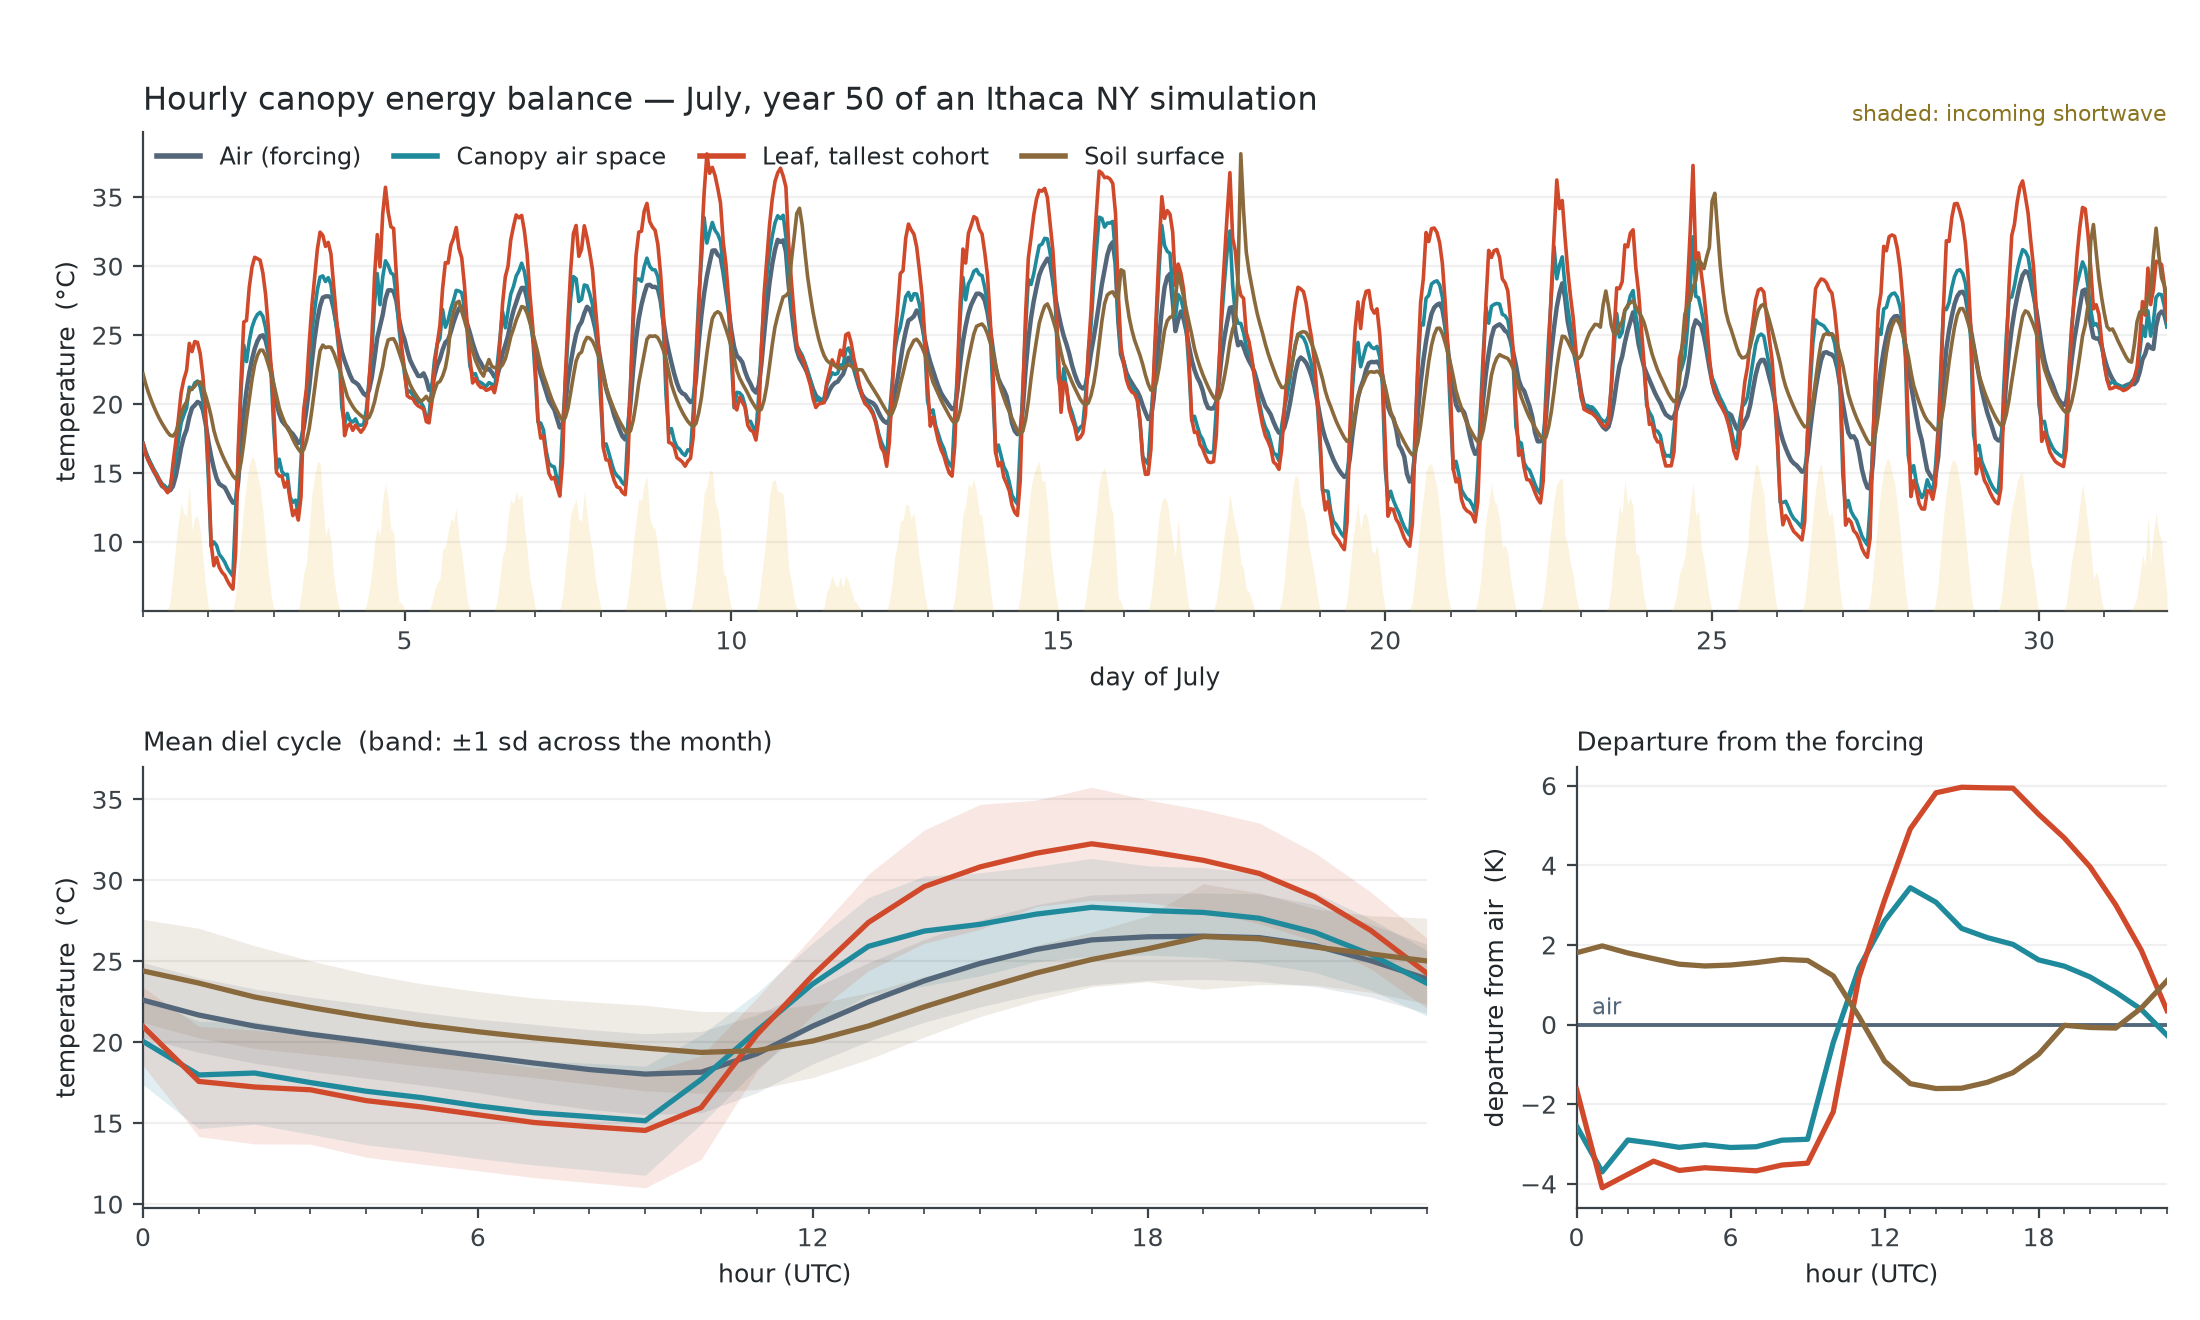
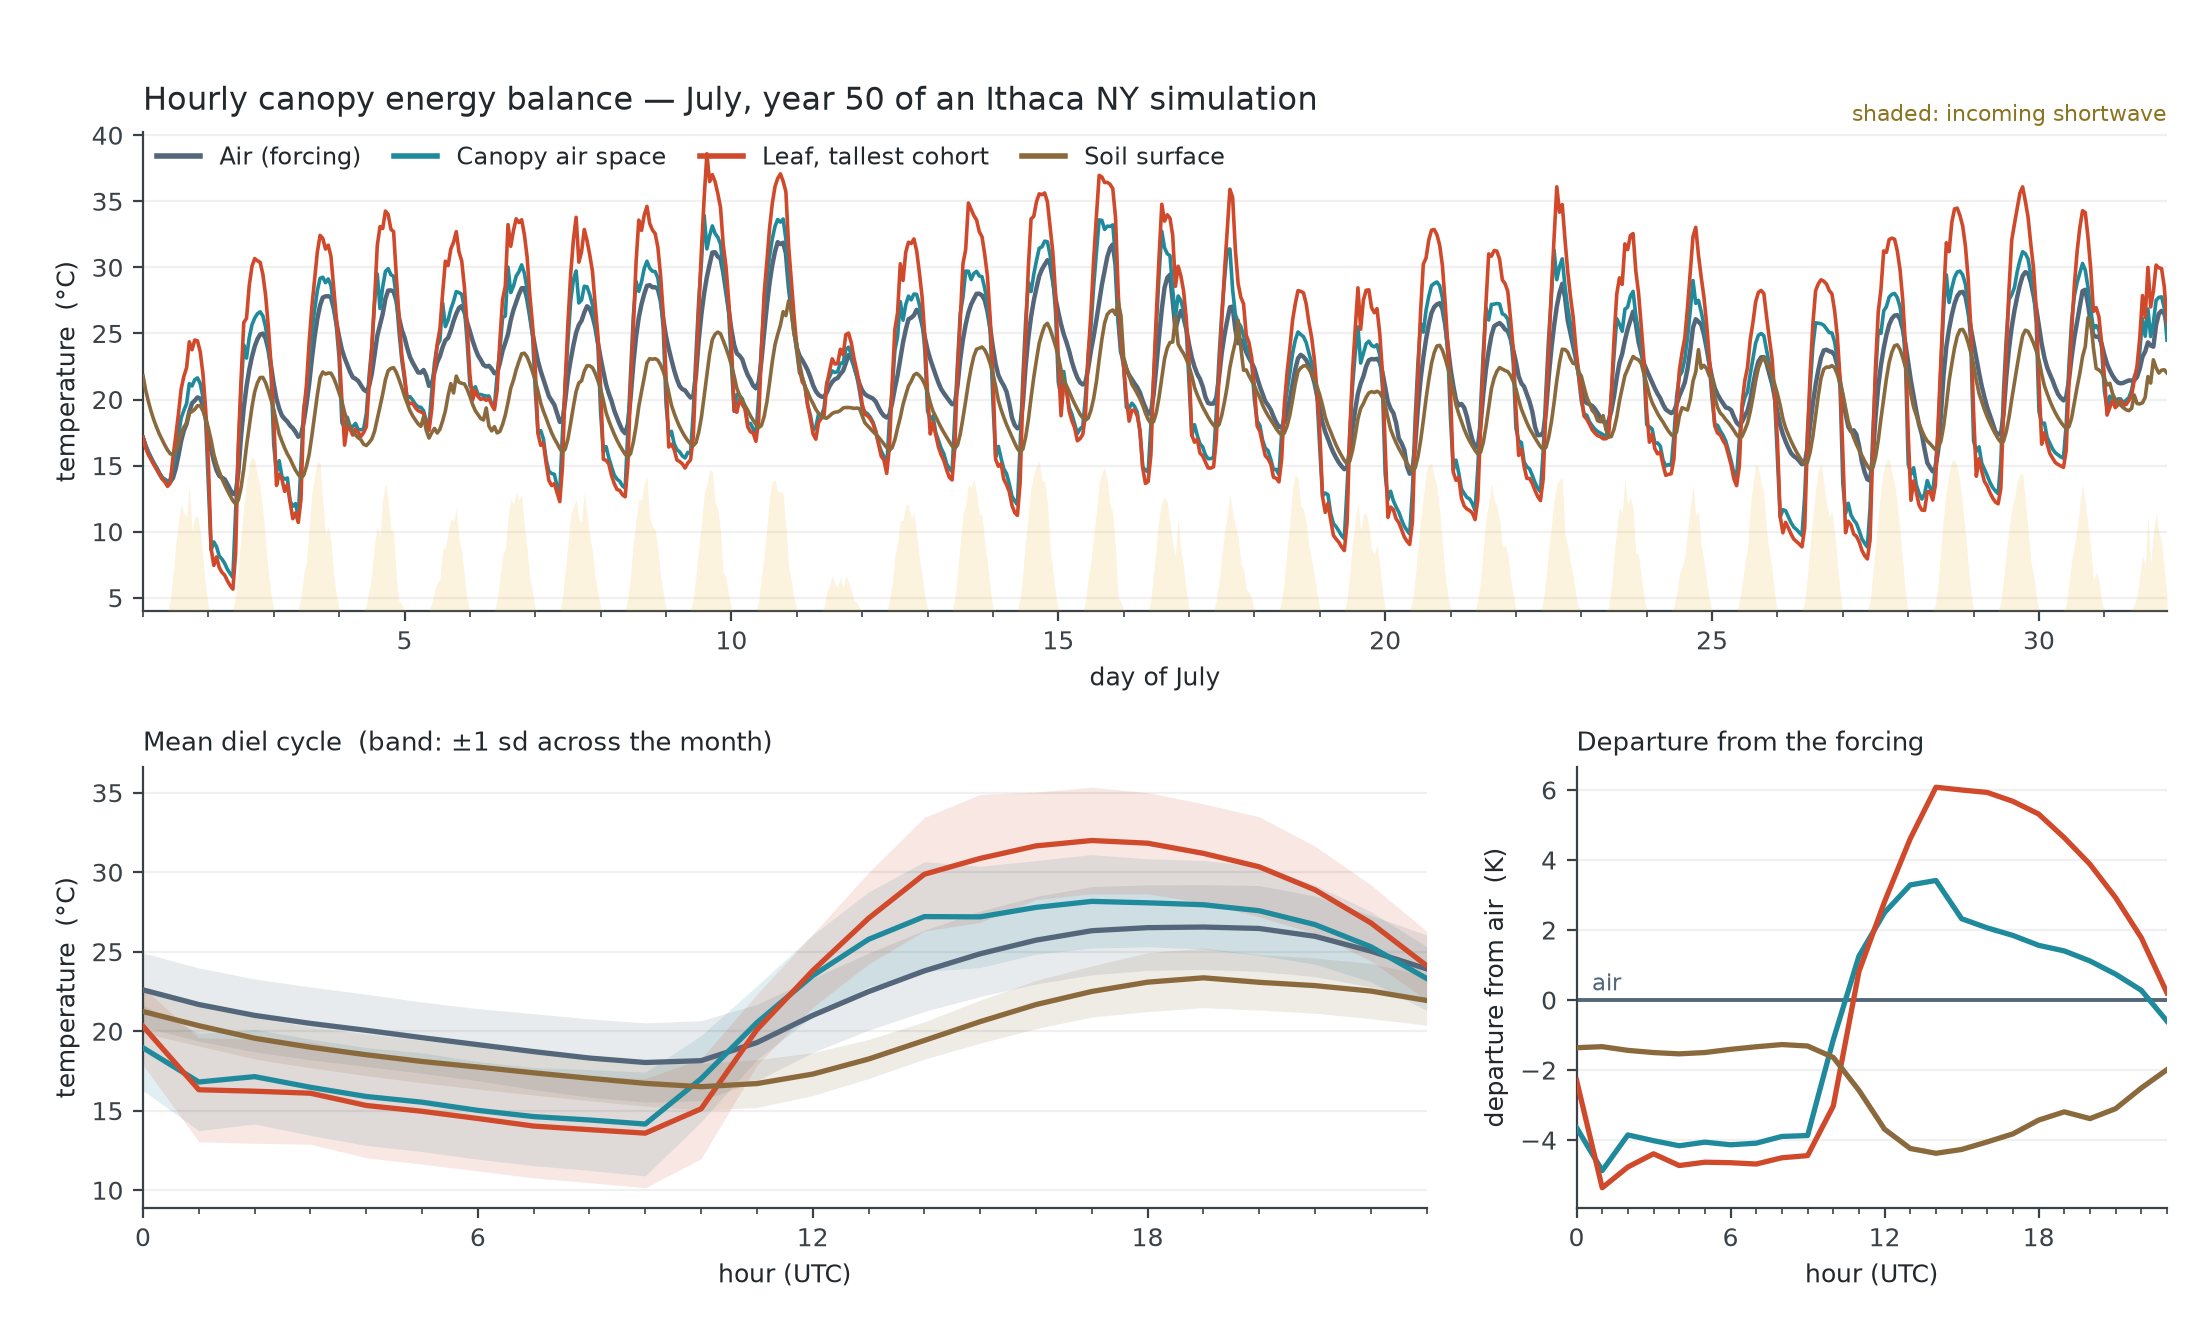
fix(soil): apply the top-face water enthalpy at the same time level as the interior
The soil-surface temperature was wrong during rain: 38 C spikes landing at
MIDNIGHT, one of them after a cloudy day whose peak shortwave never exceeded
220 W/m2. Infiltration warmed the top soil layer by +1.23 K/h against -0.075
K/h in every other hour (corr(dtheta1, dT1) = +0.55), while layers 2-3 cooled
at the same moment -- enthalpy moving UP while water percolated DOWN.

Two defects, both about water-borne enthalpy being applied inconsistently with
the mass it belongs to.

1. TIME-LEVEL SPLIT AT THE TOP FACE (the dominant one). The driver added the
   infiltrating water's enthalpy straight onto soil_energy(1) BEFORE the soil
   energy step, evaluated at rain_temp on state^n. The kernel then advected the
   outflow at t_new -- the POST-conduction T^{n+1}. internal_energy_liquid
   carries the tsupercool_liq datum (56.79 K), so liquid water is ~1.0 MJ/kg in
   ABSOLUTE terms and only differences are physical. Instrumenting one step:

     gtop=+51.4  cond=-433  advout=-1322  root=-2.2  dE1=-1706 W/m2
        at w_flux(1) = -1.27e-6 m/s, i.e. 1.3 mm/h of percolation

   Each face term reaches ~1300 W/m2 for a few mm/h. The physical signal is
   their ~30 W/m2 difference -- and the conduction solve moved layer 1 by 5.2 K
   between the two evaluations, worth ~28 W/m2. The scheme was computing a small
   difference of two large, inconsistently-evaluated numbers.

   The top face is now a proper upwind term inside soil_energy_step_implicit
[…]

diff --git a/examples/example_biophysics/README.md b/examples/example_biophysics/README.md
@@ -93,34 +93,32 @@ and the figure labels it accordingly.
 so cohort index 1 is not a stable identity. `plot_biophysics.py` resolves the tallest cohort *per
 record* from `height_cohort_fast`, masking the unused slots beyond `n_cohort`.
 
-## Known issue — the soil-surface curve during rain
+## A bug this example found
 
-**The soil-surface trace is not trustworthy during infiltration events, and the spikes in it are a
-model bug rather than physics.** Building this example surfaced it; it is not a plotting artifact.
+Building this figure surfaced a real defect in the soil energy balance, since fixed. It is recorded
+here because the diagnostic pattern is reusable.
 
-Across July 2074, the 47 hours with appreciable infiltration (Δθ₁ > 0.004) warm the top soil layer
-by **+1.23 K/h** on average, against −0.075 K/h in every other hour (correlation of Δθ₁ with
-ΔT₁ = +0.55). That sign is wrong twice over: the soil is already ~1.6 K *warmer* than the air
-during those events, so rain arriving at roughly air temperature should cool it, and the largest
-excursions land at 23:00–01:00 with zero shortwave — one of them after a cloudy day whose peak
-shortwave never exceeded 220 W/m².
+The soil-surface trace originally showed 38 °C spikes landing at **midnight**, one of them after a
+cloudy day whose peak shortwave never exceeded 220 W/m². Infiltration warmed the top soil layer by
++1.23 K/h against −0.075 K/h in every other hour, while layers 2–3 cooled — enthalpy moving *upward*
+while water percolated *downward*.
 
-The layer-wise pattern points at the mechanism. During the five largest events, layer 1 warms while
-layers 2–3 cool:
+The cause was a time-level split. The driver added the infiltrating water's enthalpy to layer 1
+*before* the soil energy step, evaluated at `rain_temp` on state\(^n\); the kernel then advected the
+outflow at `t_new` — the post-conduction \(T^{n+1}\). Because `internal_energy_liquid` carries the
+`tsupercool_liq` datum, liquid water is **~1.0 MJ/kg in absolute terms**, so each face term reached
+**~1300 W/m²** for a few mm/h of percolation. The physical signal is their small difference, and the
+conduction solve moved layer 1 by ~5 K between the two evaluations — worth ~30 W/m², i.e. the entire
+signal. The scheme was computing a small difference of two large, inconsistently-evaluated numbers.
 
-```
-dtheta1=+0.048  ->   +3.54  -1.75  -0.37  +0.06  +0.04  +0.00   (K/h, layers 1-6)
-dtheta1=+0.040  ->   +4.65  -1.95  -0.79  -0.03  +0.00  +0.02
-dtheta1=+0.034  ->   +8.69  -2.05  -3.84  -0.60  -0.01  +0.00
-```
+The fix moved the top face into `soil_energy_step_implicit` as a proper upwind term
+(`energy_forcing_t%w_flux_top`), so every water-borne enthalpy flux in the column — top, interior,
+bottom — is applied by one rule at one time level. Infiltration now warms layer 1 by +0.22 K/h and
+the correlation between Δθ₁ and ΔT₁ falls from +0.55 to +0.17.
 
-Enthalpy is moving *upward* while water percolates *downward*. Two candidates, both in
-`soil_energy_step_implicit` (`src/biophysics/meds_soil_energy.f90`):
+Two checks were added along the way and are worth knowing about:
 
-- the upwind advective-enthalpy convention at lines 64–80 (its comment records that the sign was
-  checked once and a suspected bug refuted — worth rechecking against this evidence), and
-- `qwf(0) = 0.0_wp` at line 66, which gives the **top** face no water-enthalpy flux at all, so
-  infiltrating rain enters layer 1 as mass carrying none of its own enthalpy.
-
-The air, canopy-air-space and leaf curves are unaffected — they are solved by different kernels and
-show the expected radiative and transpirational structure throughout.
+- **`flux%face_mass_resid`** asserts that the face fluxes the energy column advects on reproduce the
+  mass that actually moved. `flux%mass_resid` cannot see this — it checks the column against its
+  *boundary* fluxes, so interior face errors cancel identically.
+- The whole-column `energy_resid` now carries the boundary water enthalpy explicitly.

diff --git a/examples/README.md b/examples/README.md
@@ -12,8 +12,7 @@ README that shows how to reproduce it (run from the repository root):
 - **[`example_biophysics/`](example_biophysics/)** — the fast (sub-daily) loop at hourly resolution:
   a 50-year spin-up at Ithaca NY, then one July restarted for hourly output, plotting air, canopy-air,
   tallest-cohort leaf, and soil-surface temperature. Shows the coupled canopy energy balance producing
-  leaf and canopy-air temperatures that the meteorological forcing never contained. (See its README for
-  a known bug in the soil-surface trace during rain.)
+  leaf and canopy-air temperatures that the meteorological forcing never contained.
 - **[`example_phenology/`](example_phenology/)** — the leaf-phenology kernel driven over four synthetic
   climates, reproducing the four strategies (temperate deciduous / evergreen, tropical drought-deciduous
   / light-driven leaf-exchanging): relative LAI + the flush and shed rate tendencies for each.
